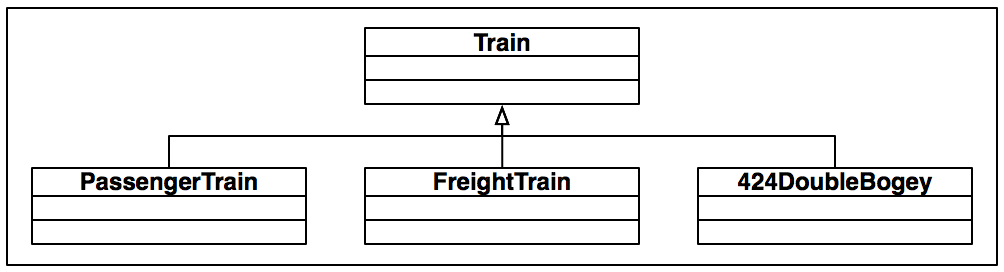
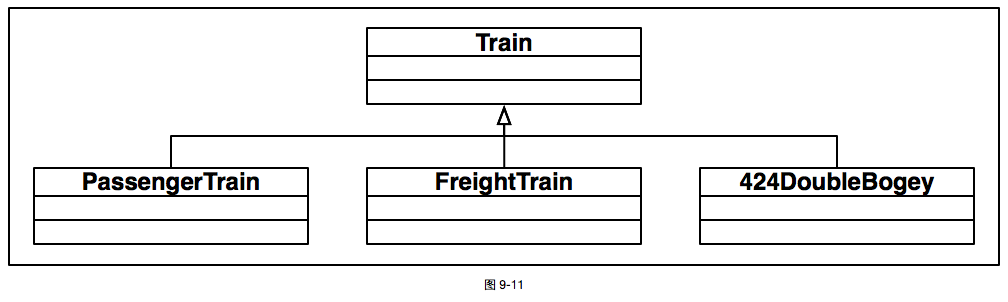
Updates 第9章 定义类/96-接口和抽象类.md
Auto commit by GitBook Editor

Changed region(s): [[0.0, 0.0, 1.0, 1.0], [0.3396, 0.7941, 0.6484, 0.8235]]

diff --git a/第9章 定义类/96-接口和抽象类.md b/第9章 定义类/96-接口和抽象类.md
@@ -14,7 +14,7 @@
 
 &emsp;&emsp;例如，假定有一个对象系列表示火车，基类 `Train` 包含火车的核心定义，例如车轮的规格和引擎的类型（可以是蒸汽发动机、柴油发动机等）。但这个类是抽象的，因为并没有 “一般的” 火车。为创建一辆实际的火车，需要给该火车添加特性。为此，派生一些类，例如 `PassengerTrain`、`FreightTrain` 和 `424DoubleBogey` 等，**`如图 9-11 所示`**。
 
-
+![图 9-11](/assets/9-11.png)
 
 
 
